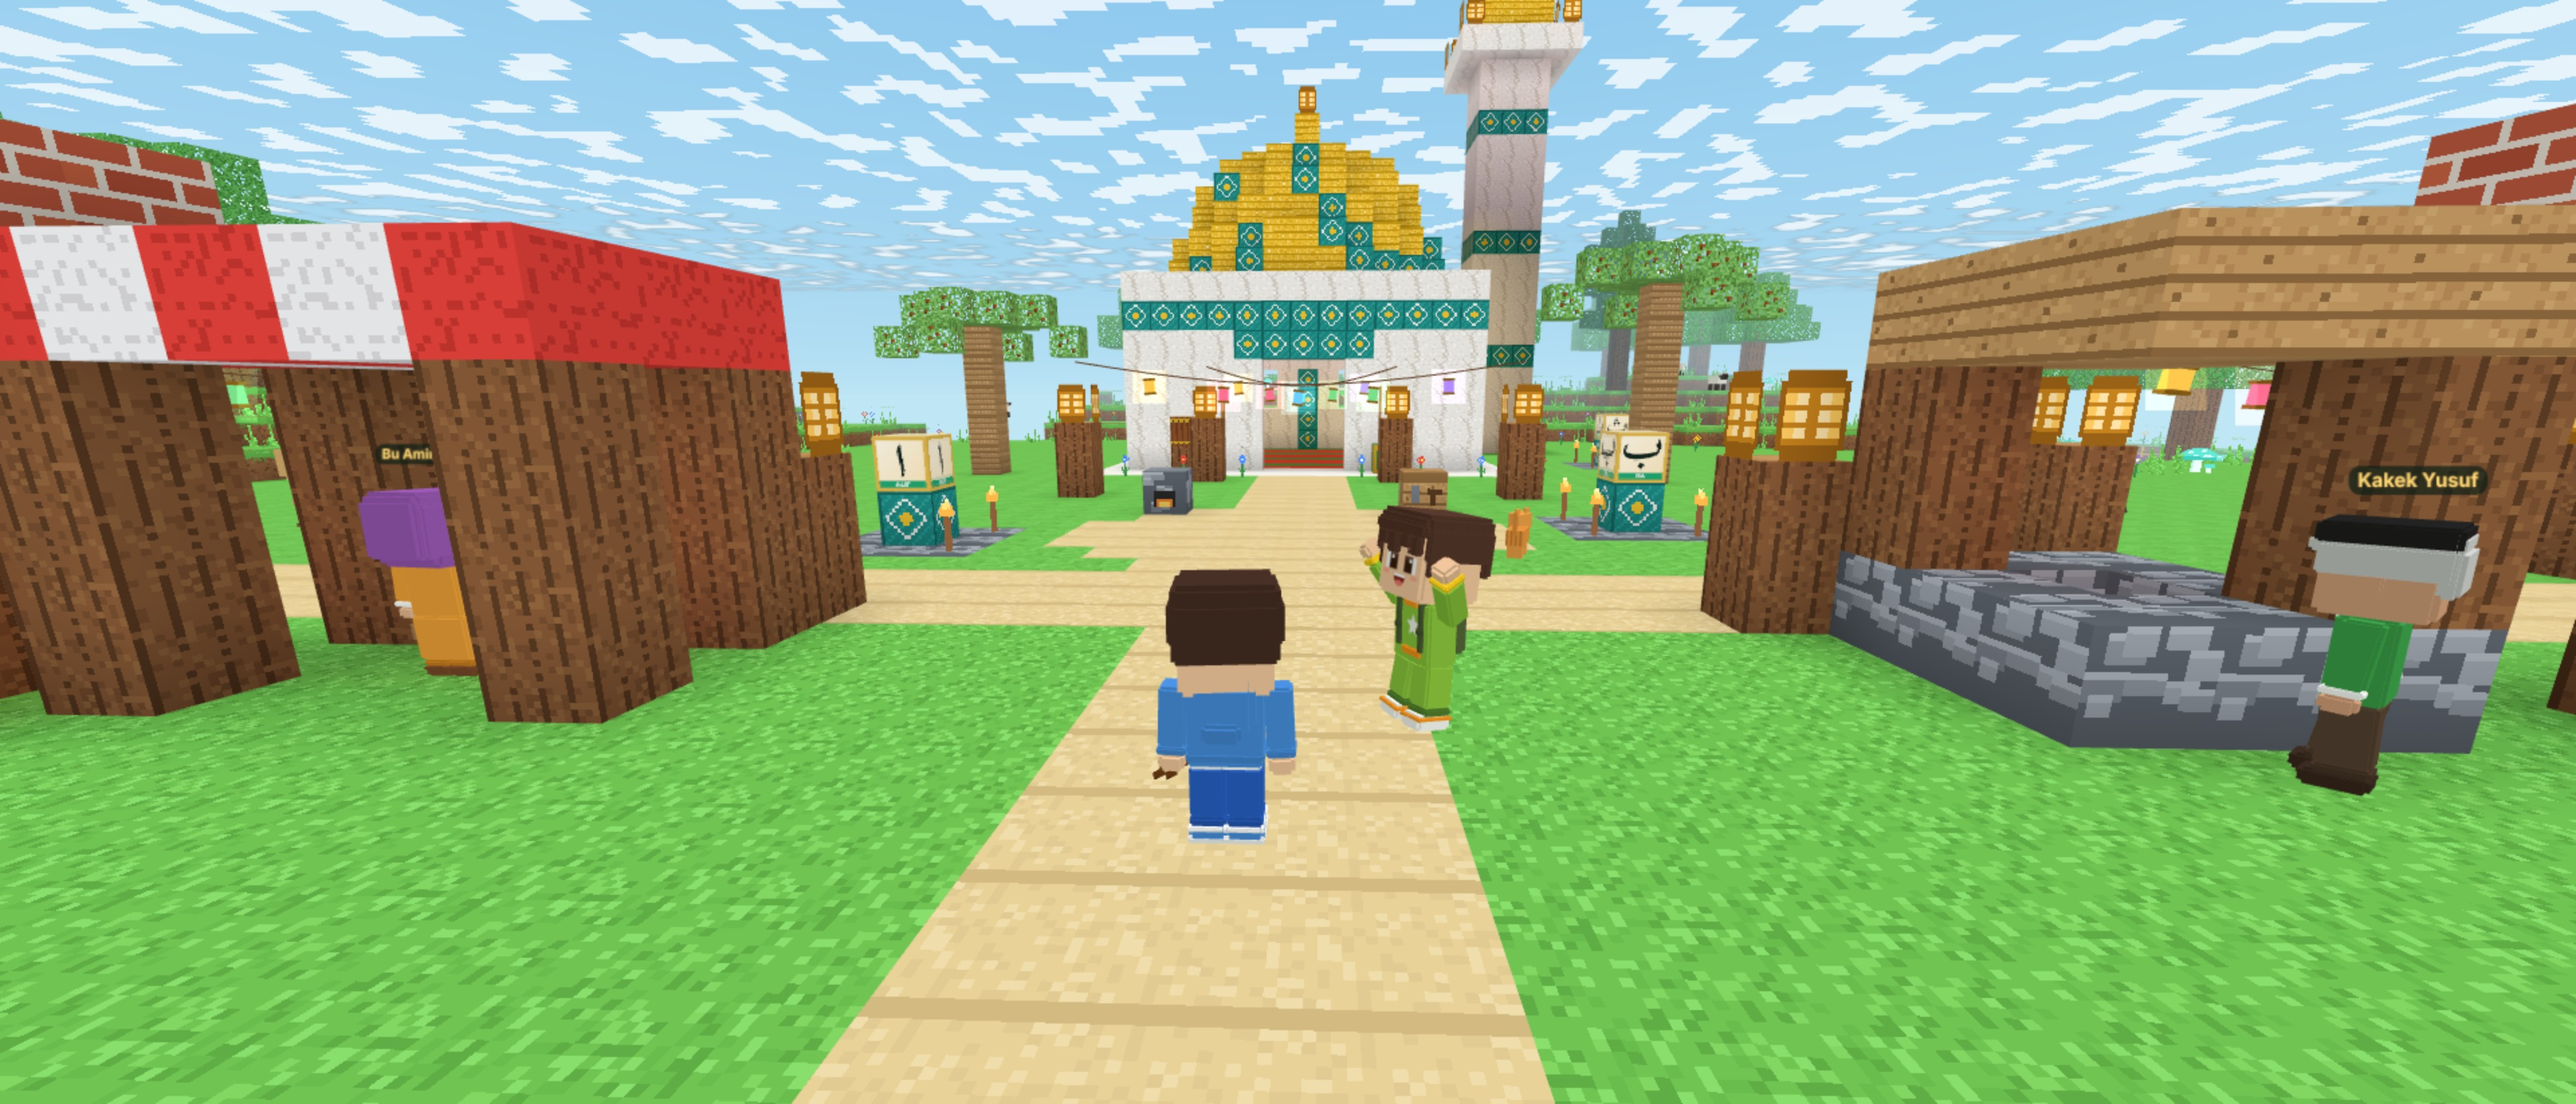
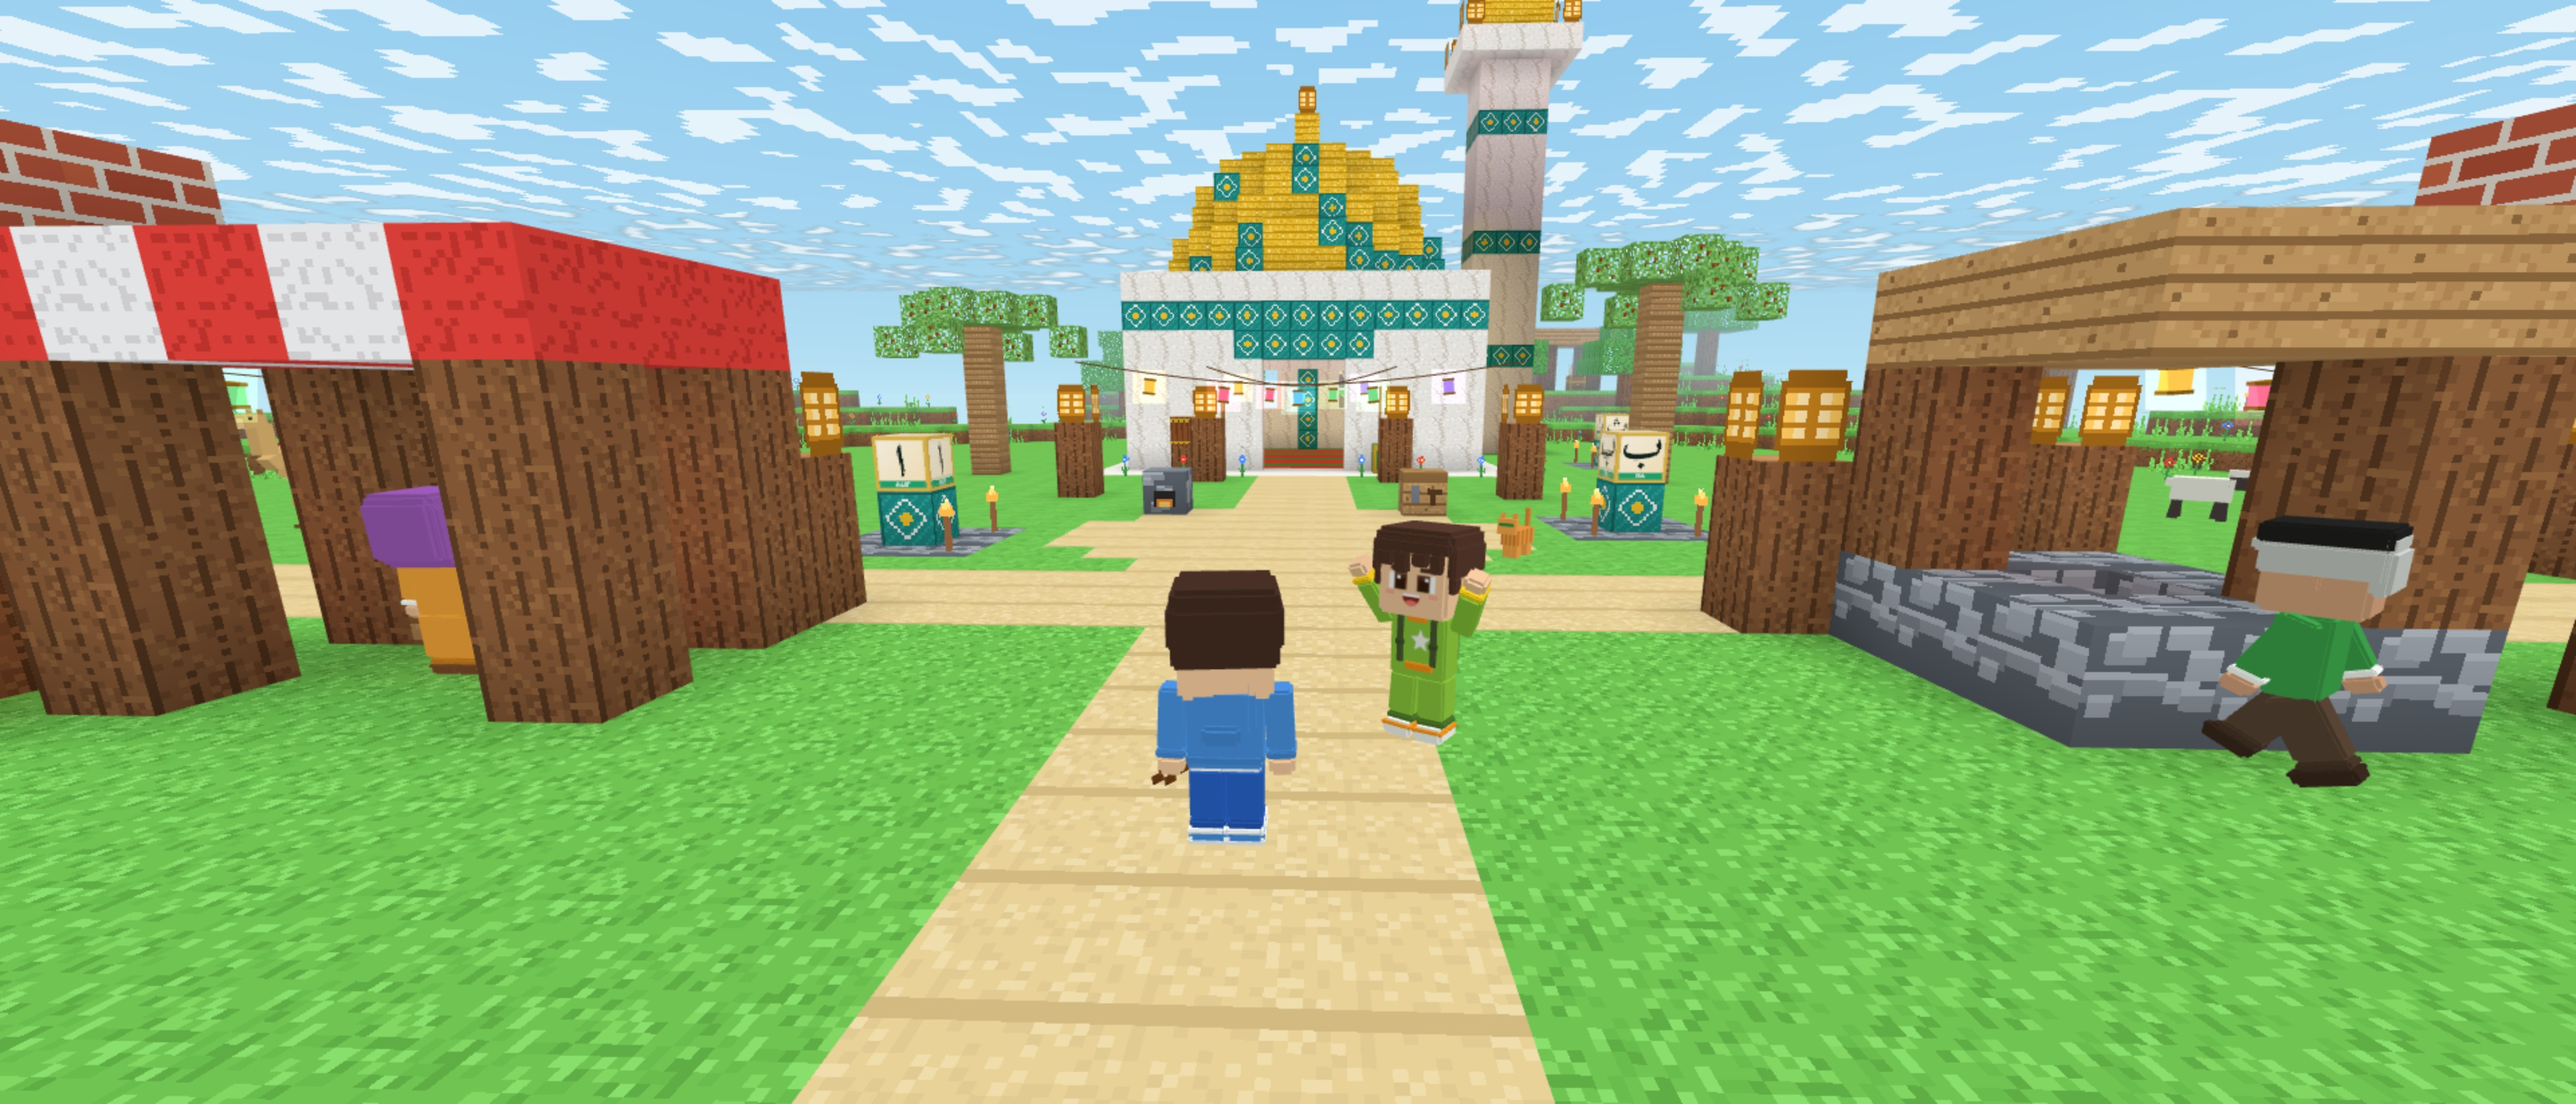
App Store kit: Search Results image (3840x2560), cleaner Header
The Search Results slot takes 5244x2950, 3840x2560 or 1920x1280: the
village scene rendered at 3840x2560. Both images now hide every name
tag and all on-screen buttons (a stylesheet instead of per-element
visibility, which missed the item bar).

Claude-Session: https://claude.ai/code/session_013wiJDRyxEnuoux6JMkpNFD

diff --git a/appstore/index.html b/appstore/index.html
@@ -90,6 +90,11 @@ a{color:var(--sea);font-weight:700}figure a{display:block}
 <a href="header/MoCraft-Header-3840x1646.jpg" target="_blank"><img src="header/header-preview.jpg" alt="The village with the masjid, the player and Baby Mo on the path" style="width:100%;border-radius:10px;border:1px solid var(--line)"></a>
 <div class="dl"><a class="big" href="header/MoCraft-Header-3840x1646.jpg" download>⬇ Header image (3840 × 1646, JPEG)</a></div></div>
 
+<div class="card"><h3 style="margin:0">Search Results image <span class="px">3840 × 2560 px</span></h3>
+<p>For <b>Header and Search Results → Search Results</b> in App Store Connect. The same village scene in the taller 3:2 shape, with Baby Mo cheering.</p>
+<img src="header/search-preview.jpg" alt="The village with the masjid, the player and Baby Mo cheering" style="width:100%;border-radius:10px;border:1px solid var(--line)">
+<div class="dl"><a class="big" href="header/MoCraft-SearchResults-3840x2560.jpg" download>⬇ Search Results image (3840 × 2560, JPEG)</a></div></div>
+
 <nav class="tabs" aria-label="Listing language"><button id="t-en" aria-pressed="true" data-l="en">English</button><button id="t-id" aria-pressed="false" data-l="id">Indonesian</button></nav>
 <section class="lang" data-lang="en"><h2>English listing</h2><div class="field"><div class="fhead"><label for="en-name">App name</label><span class="count">20 / 30 characters</span><button class="copy" data-t="en-name">Copy</button></div><textarea id="en-name" readonly rows="2">Baby Mo Island Craft</textarea></div><div class="field"><div class="fhead"><label for="en-subtitle">Subtitle</label><span class="count">27 / 30 characters</span><button class="copy" data-t="en-subtitle">Copy</button></div><textarea id="en-subtitle" readonly rows="2">Learn Iqro, Islam &amp; English</textarea></div><div class="field"><div class="fhead"><label for="en-promo">Promotional text</label><span class="count">153 / 170 characters</span><button class="copy" data-t="en-promo">Copy</button></div><textarea id="en-promo" readonly rows="3">New: the Iqro journey! After the 28 hijaiyah letters, read syllables, words and short surahs — then race karts, ride horses and try archery with Baby Mo.</textarea></div><div class="field"><div class="fhead"><label for="en-keywords">Keywords</label><span class="count">99 / 100 bytes</span><button class="copy" data-t="en-keywords">Copy</button></div><textarea id="en-keywords" readonly rows="2">islamic,quran,iqro,hijaiyah,arabic,muslim,kids,prayer,wudu,ramadan,english,maths,learning,adventure</textarea></div><div class="field"><div class="fhead"><label for="en-description">Description</label><span class="count">1898 / 4000 characters</span><button class="copy" data-t="en-description">Copy</button></div><textarea id="en-description" readonly rows="18">Assalamu’alaikum! Baby Mo Island Craft is a cozy island adventure where children learn about Islam, the Qur’an, English and simple maths — while they explore, build and play with their friend Baby Mo.
 

diff --git a/CHANGELOG.md b/CHANGELOG.md
@@ -41,7 +41,7 @@ Asked by a parent: everything needed for the App Store submission.
   App Store Connect's “iPhone with Dynamic Island (medium display)” slot
   (2622 × 1206; the 6.9″ files were refused there), “iPhone Duo”
   (2034 × 1398) and iPad 13″ in both languages, plus the Header image
-  (3840 × 1646) (previews, full-size files
+  (3840 × 1646) and the Search Results image (3840 × 2560) (previews, full-size files
   and one zip per language), the listing text with copy buttons, and the
   privacy, age-rating, review and checklist answers. The `appstore/` folder
   is copied in only when the website is published, so it isn't in the
